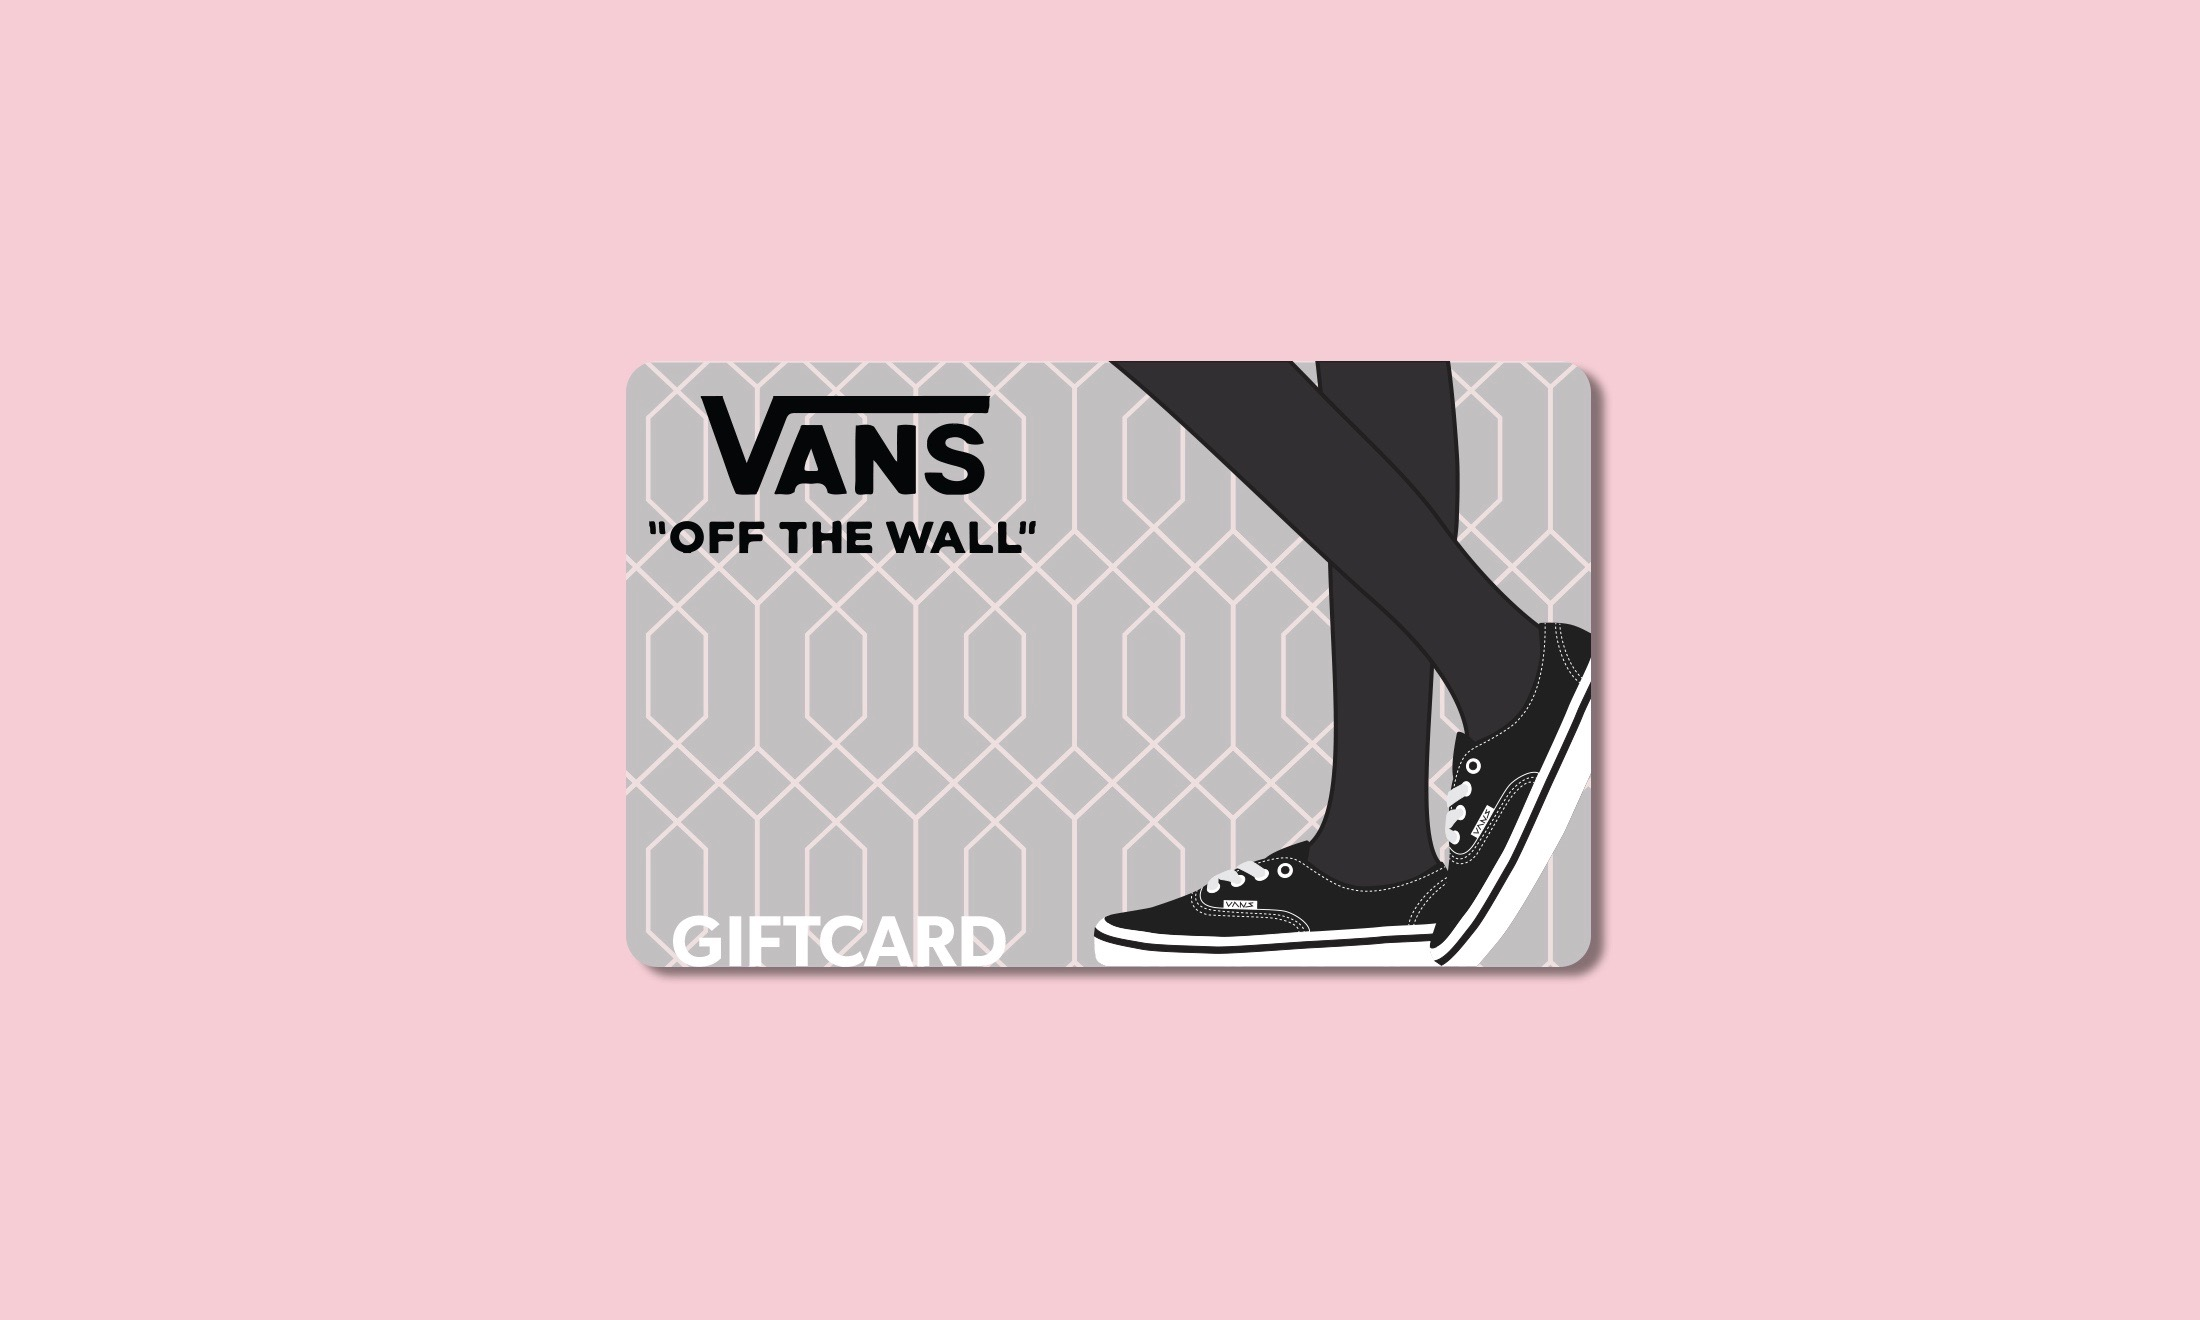
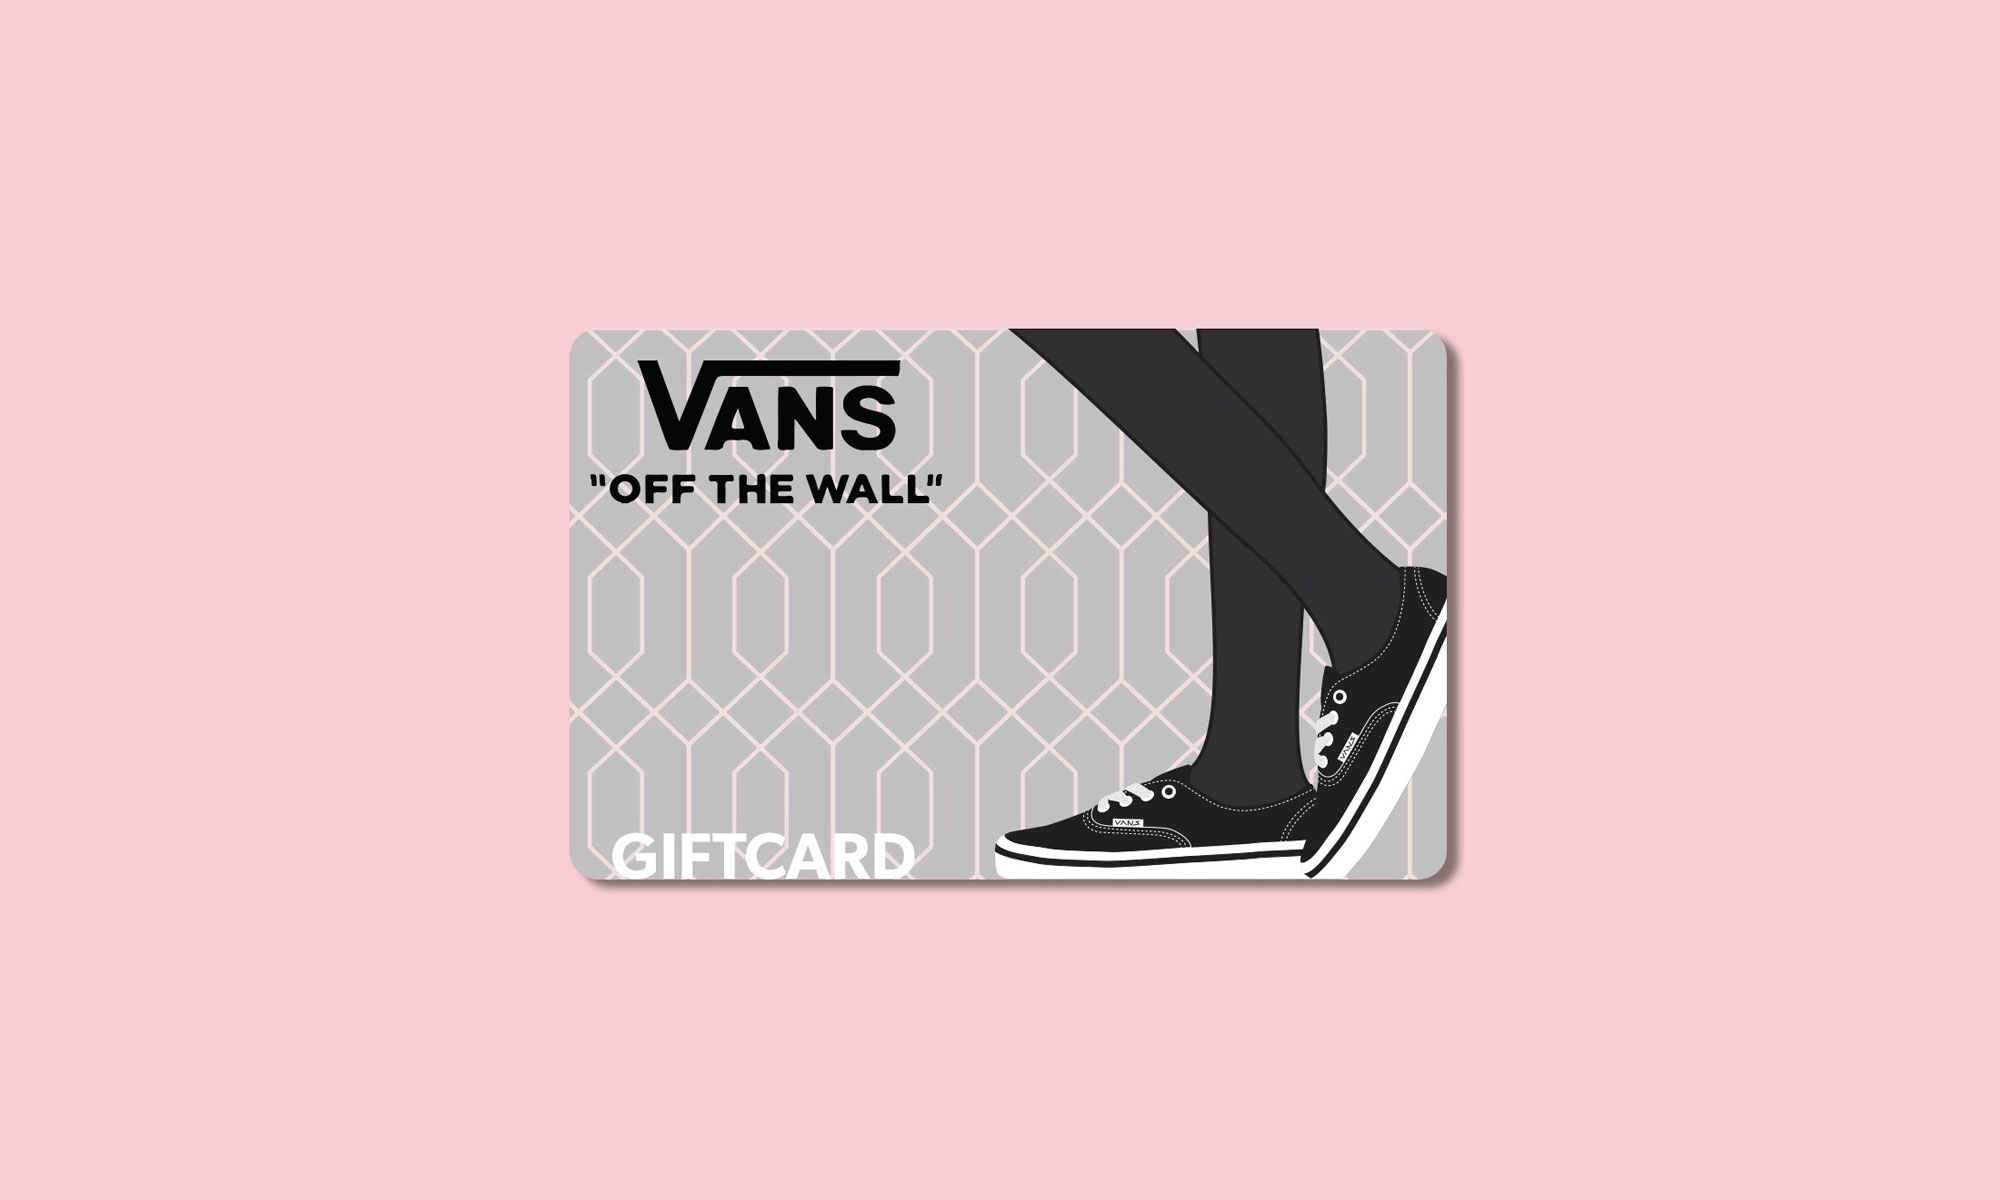
resizing images

diff --git a/index.html b/index.html
@@ -16,7 +16,7 @@ layout: default
 
       <div class="banner-small">
         <div class="imagebanner">
-          <img class="me2 img-flex" src="{{site.baseurl}}/images/me1.png" alt="">
+          <img class="me2 img-flex" src="{{site.baseurl}}/images/me.png" alt="">
         </div>
 
         <div class="text2">
@@ -90,6 +90,24 @@ layout: default
 </section>
 
 
-<div>
-
-</div>
+<section id="contact" class="grid contact-me text-center">
+  <h3 class="unit s-1 pad-t-2">CONTACT ME</h3>
+  <!--FORM-->
+  <form class="unit s-1" action="https://formspree.io/jaimie.erin@yahoo.ca" method="POST">
+    <div class="push">
+      <label for="name">NAME</label>
+      <input id="name" name="name" required>
+    </div>
+    <div class="push">
+      <label for="email">E-MAIL</label>
+      <input id="email" type="email" placeholder="hey@company.ca" name="email" required>
+    </div>
+    <div class="push">
+      <label for="details">What can I do for you?</label>
+      <textarea id="details" name="message" required></textarea>
+    </div>
+    <div>
+      <button class="btn btn-light" type="submit">SUBMIT</button>
+    </div>
+  </form>
+</section>

diff --git a/jacket.html b/jacket.html
@@ -15,7 +15,7 @@ layout: default
       </div>
 
       <div class="card unit s-1 m-2-3 island">
-        <img class="" src="{{site.baseurl}}/images/jackets/thought.png" alt="">
+        <img class="" src="{{site.baseurl}}/images/jackets/thought.jpg" alt="">
       </div>
 
       <div class="unit s-1 m-1-3 island">
@@ -31,7 +31,7 @@ layout: default
       </div>
 
       <div class="card unit s-1 m-2-3 island">
-        <img class="" src="{{site.baseurl}}/images/jackets/case.jpg" alt="">
+        <img class="" src="{{site.baseurl}}/images/jackets/case1.jpg" alt="">
       </div>
 
       <div class="unit s-1 m-1-3 island">

diff --git a/_layouts/default.html b/_layouts/default.html
@@ -27,15 +27,6 @@
         <h1><a href="{{site.baseurl}}/index">Jaimie Porter</a></h1>
       </div>
 
-      <nav class="unit xs-1 s-1 m-1 l-1-2">
-        <input type="checkbox" class="nav-check hide-custom-input" id="nav-check">
-        <label class="nav-label" for="nav-check"><img src="{{site.baseurl}}/images/nav-icon.svg" alt="Open Navigation"></label>
-        <ul class="nav list-group">
-          <li><a href="{{site.baseurl}}/#work">Work</a></li>
-          <li><a href="#">About</a></li>
-          <li><a href="{{site.baseurl}}/contact">Contact</a></li>
-        </ul>
-      </nav>
     </div>
   </header>
 

diff --git a/iscream.html b/iscream.html
@@ -7,7 +7,7 @@ layout: default
     <div class="pieces grid">
 
       <div class="card unit s-1 m-2-3 island">
-        <img class="portfolio-piece" src="{{site.baseurl}}/images/i-scream/i-scream-screans.png" alt="">
+        <img class="portfolio-piece" src="{{site.baseurl}}/images/i-scream/i-scream-screans.jpg" alt="">
       </div>
 
       <div class="unit s-1 m-1-3 island">

diff --git a/css/main.css b/css/main.css
@@ -223,7 +223,7 @@ img {
 }
 
 .image-pad {
-  padding-bottom: 3rem;
+;
 }
 
 
@@ -238,6 +238,7 @@ footer p {
 
 footer {
   border-top: 1px solid black;
+  background-color: #bac4b0;
 }
 
 .footer-content {
